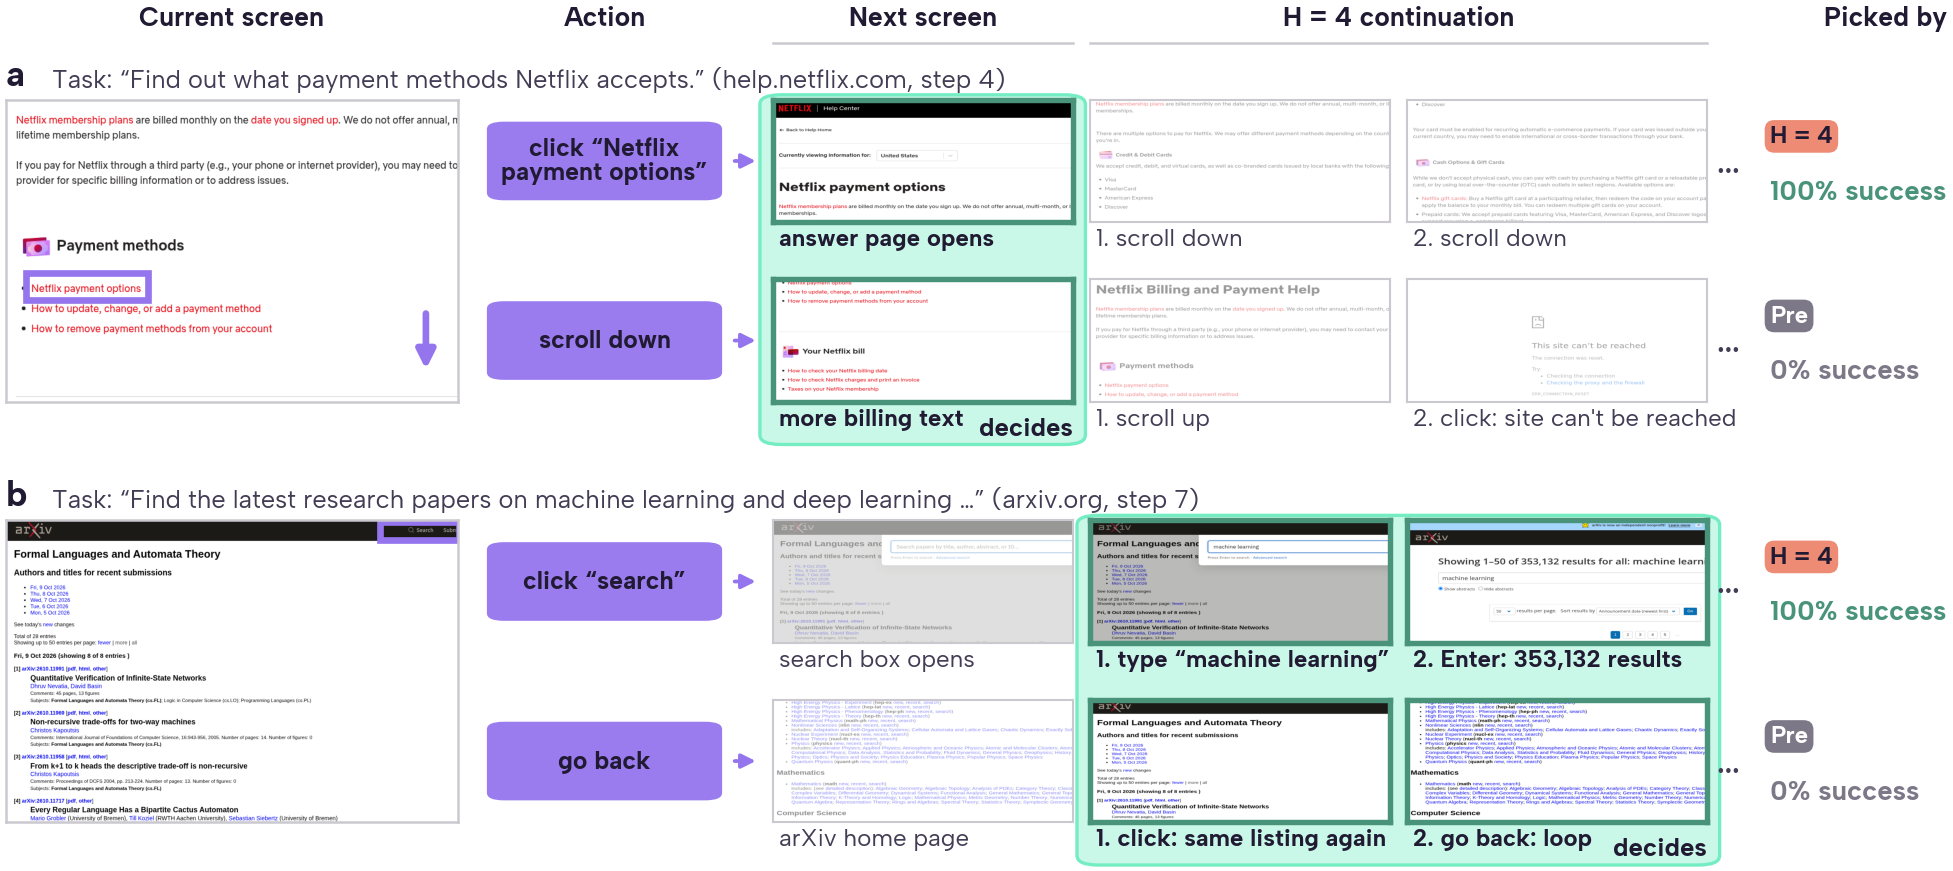
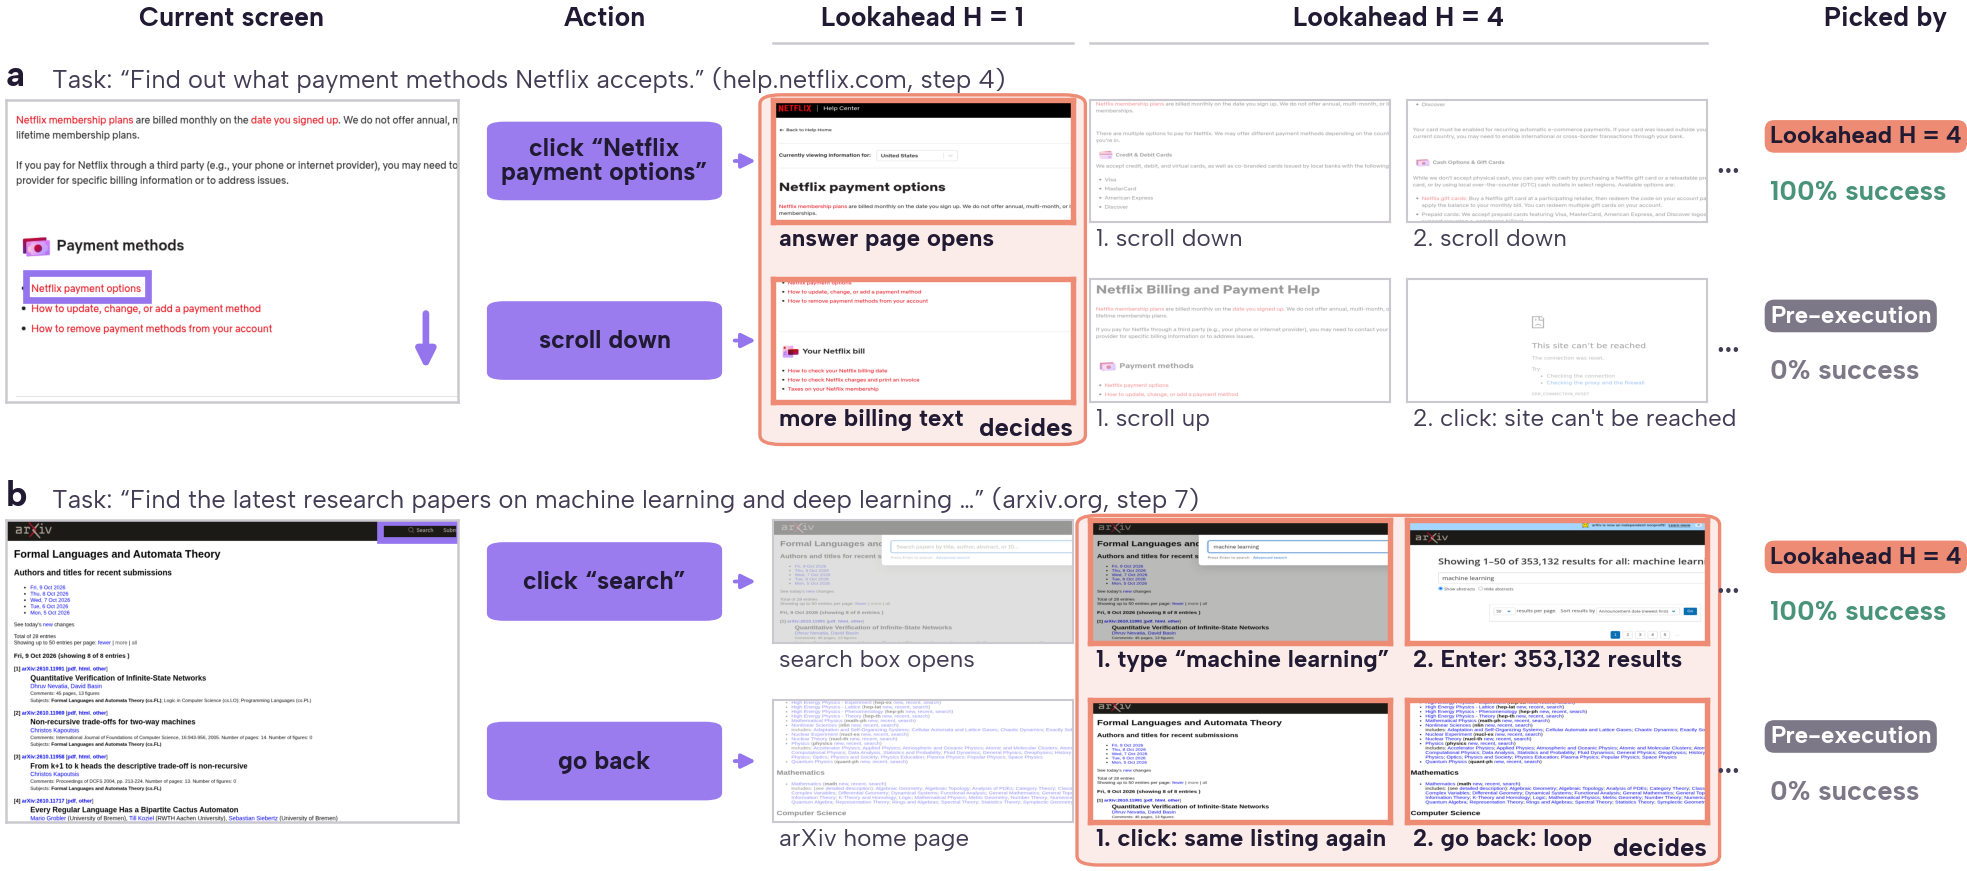
Highlight lookahead evidence in teacher examples

diff --git a/openwebrl/docs/arm_results/luna_pre_post_k3_20261105/compact_examples.py b/openwebrl/docs/arm_results/luna_pre_post_k3_20261105/compact_examples.py
@@ -25,8 +25,9 @@ from render_examples import (R, SRC, INK, MUTED, GOOD, BAD, read, img, attempt_f
 from paper_plot_palette import COLORS as C, tint
 
 HERE = Path(__file__).resolve().parent
-COLOR = {k: c for k, _, c in SRC}; NAME = {k: n for k, n, _ in SRC}; NAME["k3"] = "H = 4"
-BAND, BANDEDGE = tint("STATE", 0.62), C["STATE"]
+COLOR = {k: c for k, _, c in SRC}; NAME = {k: n for k, n, _ in SRC}
+NAME["pre"], NAME["k3"] = "Pre-execution", "Lookahead H = 4"
+BAND, BANDEDGE = tint("LOOKAHEAD_EVIDENCE", 0.84), C["LOOKAHEAD_EVIDENCE"]
 GOODC, BADC = C["SUCCESS"], C["FAILURE"]
 EXAMPLES = [
     dict(letter="a", title="The screen right after the action decides",
@@ -85,8 +86,8 @@ def main():
     xt, wt, gt = 0.365, 0.143, 0.008   # three screens: right after the action, next action 1, next action 2
     xp = xt + 3 * wt + 2 * gt + 0.03   # picks / success (after a "…" marking further lookahead)
     th, rowgap = 0.13, 0.06
-    heads = [(xc + wc / 2, "Current screen"), (xa + wa / 2, "Action"), (xt + wt / 2, "Next screen"),
-             (xt + 1.5 * wt + 1.5 * gt + wt / 2, "H = 4 continuation"), (xp + 0.055, "Picked by")]
+    heads = [(xc + wc / 2, "Current screen"), (xa + wa / 2, "Action"), (xt + wt / 2, "Lookahead H = 1"),
+             (xt + 1.5 * wt + 1.5 * gt + wt / 2, "Lookahead H = 4"), (xp + 0.055, "Picked by")]
     for x, t in heads:
         fig.text(x, 0.995, t, fontsize=6.4, color=INK, ha="center", va="top", fontweight="bold", linespacing=1.1)
     for x0, x1 in ((xt, xt + wt), (xt + wt + gt, xt + 3 * wt + 2 * gt)):
@@ -105,7 +106,7 @@ def main():
         fig.add_artist(FancyBboxPatch((bx0, y - block_h - 0.045), bx1 - bx0, block_h + 0.05,
                                       boxstyle="round,pad=0,rounding_size=0.01", fc=BAND, ec=BANDEDGE, lw=0.8,
                                       transform=fig.transFigure, zorder=-5))
-        fig.text(bx1 - 0.006, y - block_h - 0.04, "decides", fontsize=6.2, color=C["INK"], fontweight="bold", ha="right", va="bottom")
+        fig.text(bx1 - 0.006, y - block_h - 0.04, "decides", fontsize=6.2, color=INK, fontweight="bold", ha="right", va="bottom")
         ax = pic(fig, [xc, y - block_h, wc, block_h], crop(cur, ex["cur"]))
         for k, (i, label, caps) in enumerate(ex["cands"]):
             col = C["ACTION"]
@@ -127,7 +128,7 @@ def main():
                 rx = xt + j * (wt + gt)
                 if j < len(shots):
                     key = j in ex["decide"]
-                    a_ = pic(fig, [rx, ry, wt, th], crop(shots[j], ex["thumb"]), edge=C["STATE_BORDER"] if key else C["BORDER"],
+                    a_ = pic(fig, [rx, ry, wt, th], crop(shots[j], ex["thumb"]), edge=C["LOOKAHEAD_EVIDENCE"] if key else C["BORDER"],
                              lw=1.3 if key else 0.5)
                     if not key:                    # fade evidence that does not decide this example
                         a_.add_patch(Rectangle((0, 0), 1, 1, transform=a_.transAxes, fc="white", alpha=0.55, ec="none"))
